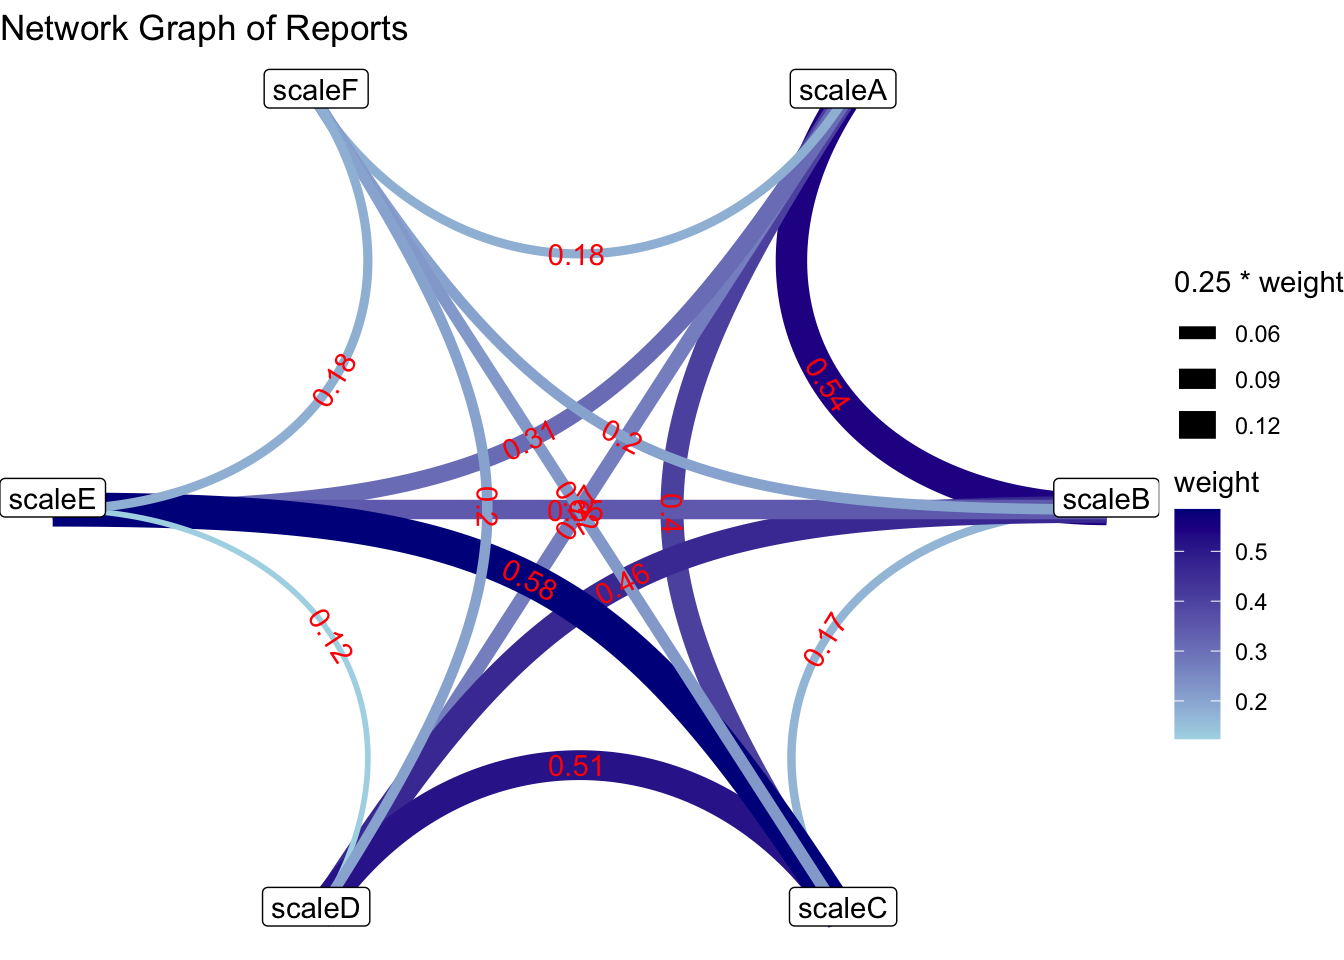
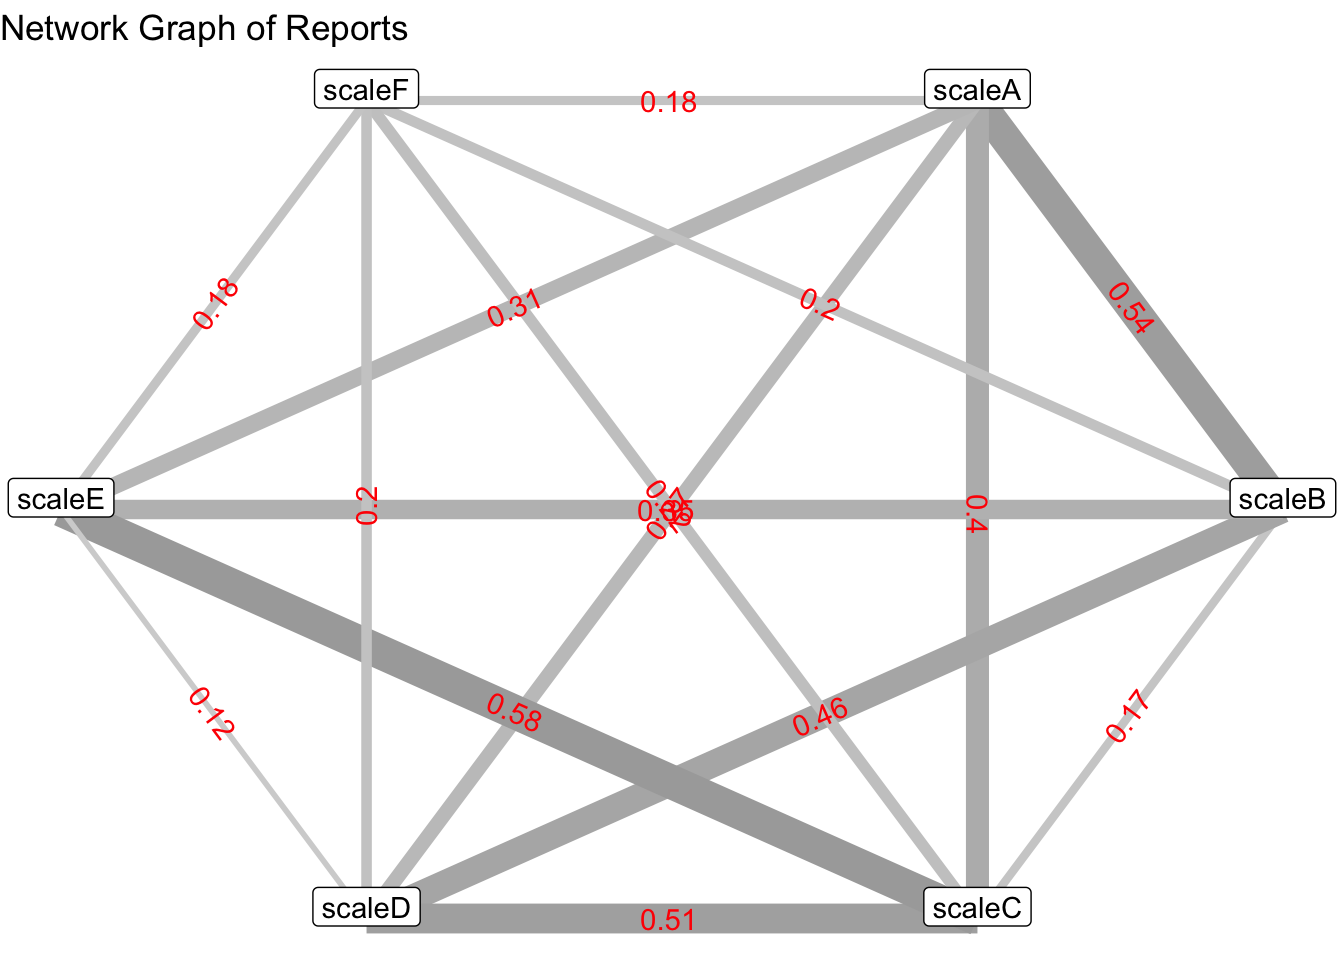
REBUILD w updated blog post on network-graphs

diff --git a/docs/posts/multilevel-thinking/index.html b/docs/posts/multilevel-thinking/index.html
@@ -7,7 +7,7 @@
 <meta name="viewport" content="width=device-width, initial-scale=1.0, user-scalable=yes">
 
 <meta name="author" content="Andy Grogan-Kaylor">
-<meta name="dcterms.date" content="2026-06-11">
+<meta name="dcterms.date" content="2026-06-13">
 
 <title>Multilevel Thinking – Andrew Grogan-Kaylor</title>
 <style>
@@ -89,10 +89,10 @@ ul.task-list li input[type="checkbox"] {
 <meta name="twitter:card" content="summary_large_image">
 <meta name="citation_title" content="Multilevel Thinking">
 <meta name="citation_author" content="Andy Grogan-Kaylor">
-<meta name="citation_publication_date" content="2026-06-11">
-<meta name="citation_cover_date" content="2026-06-11">
+<meta name="citation_publication_date" content="2026-06-13">
+<meta name="citation_cover_date" content="2026-06-13">
 <meta name="citation_year" content="2026">
-<meta name="citation_online_date" content="2026-06-11">
+<meta name="citation_online_date" content="2026-06-13">
 <meta name="citation_language" content="en">
 <meta name="citation_reference" content="citation_title=Spanking and adult mental health impairment: The case for the designation of spanking as an adverse childhood experience;,citation_abstract=Adverse Childhood Experiences (ACEs) such as child abuse are related to poor health outcomes. Spanking has indicated a similar association with health outcomes, but to date has not been considered an ACE. Physical and emotional abuse have been shown in previous research to correlate highly and may be similar in nature to spanking. To determine if spanking should be considered an ACE, this study aimed to examine 1): the grouping of spanking with physical and emotional abuse; and 2) if spanking has similar associations with poor adult health problems and accounts for additional model variance. Adult mental health problems included depressive affect, suicide attempts, moderate to heavy drinking, and street drug use. Data were from the CDC-Kaiser ACE study (N = 8316, response rate = 65;,citation_author=Tracie O. Afifi;,citation_author=Derek Ford;,citation_author=Elizabeth T. Gershoff;,citation_author=Melissa Merrick;,citation_author=Andrew Grogan-Kaylor;,citation_author=Katie A. Ports;,citation_author=Harriet L. MacMillan;,citation_author=George W. Holden;,citation_author=Catherine A. Taylor;,citation_author=Shawna J. Lee;,citation_author=Robbyn Peters Bennett;,citation_publication_date=2017;,citation_cover_date=2017;,citation_year=2017;,citation_doi=10.1016/j.chiabu.2017.01.014;,citation_isbn=0145-2134;,citation_issn=18737757;,citation_volume=71;,citation_journal_title=Child Abuse and Neglect;">
 <meta name="citation_reference" content="citation_title=Interaction terms in logit and probit models;,citation_abstract=The magnitude of the interaction effect in nonlinear models does not equal the marginal effect of the interaction term, can be of opposite sign, and its statistical significance is not calculated by standard software. We present the correct way to estimate the magnitude and standard errors of the interaction effect in nonlinear models. © 2003 Elsevier Science B.V. All rights reserved.;,citation_author=Chunrong Ai;,citation_author=Edward C. Norton;,citation_publication_date=2003;,citation_cover_date=2003;,citation_year=2003;,citation_doi=10.1016/S0165-1765(03)00032-6;,citation_issn=01651765;,citation_journal_title=Economics Letters;">
@@ -319,7 +319,7 @@ ul.task-list li input[type="checkbox"] {
       <div>
       <div class="quarto-title-meta-heading">Published</div>
       <div class="quarto-title-meta-contents">
-        <p class="date">June 11, 2026</p>
+        <p class="date">June 13, 2026</p>
       </div>
     </div>
     

diff --git a/docs/blog.html b/docs/blog.html
@@ -395,7 +395,7 @@ window.Quarto = {
     </div>
 </div>
 <div class="list quarto-listing-default">
[2 lines of base64/hex data omitted]
 <div class="thumbnail"><a href="./posts/multilevel-thinking/index.html" class="no-external">
 
 <img loading="lazy" src="./posts/multilevel-thinking/multilevel-thinking.png" class="thumbnail-image">
@@ -432,7 +432,7 @@ I’d like to share that my book, <em>Multilevel Thinking: Discovering Variation
 <div class="metadata">
 <a href="./posts/multilevel-thinking/index.html" class="no-external">
 <div class="listing-date">
-Jun 11, 2026
+Jun 13, 2026
 </div>
 </a>
 </div>